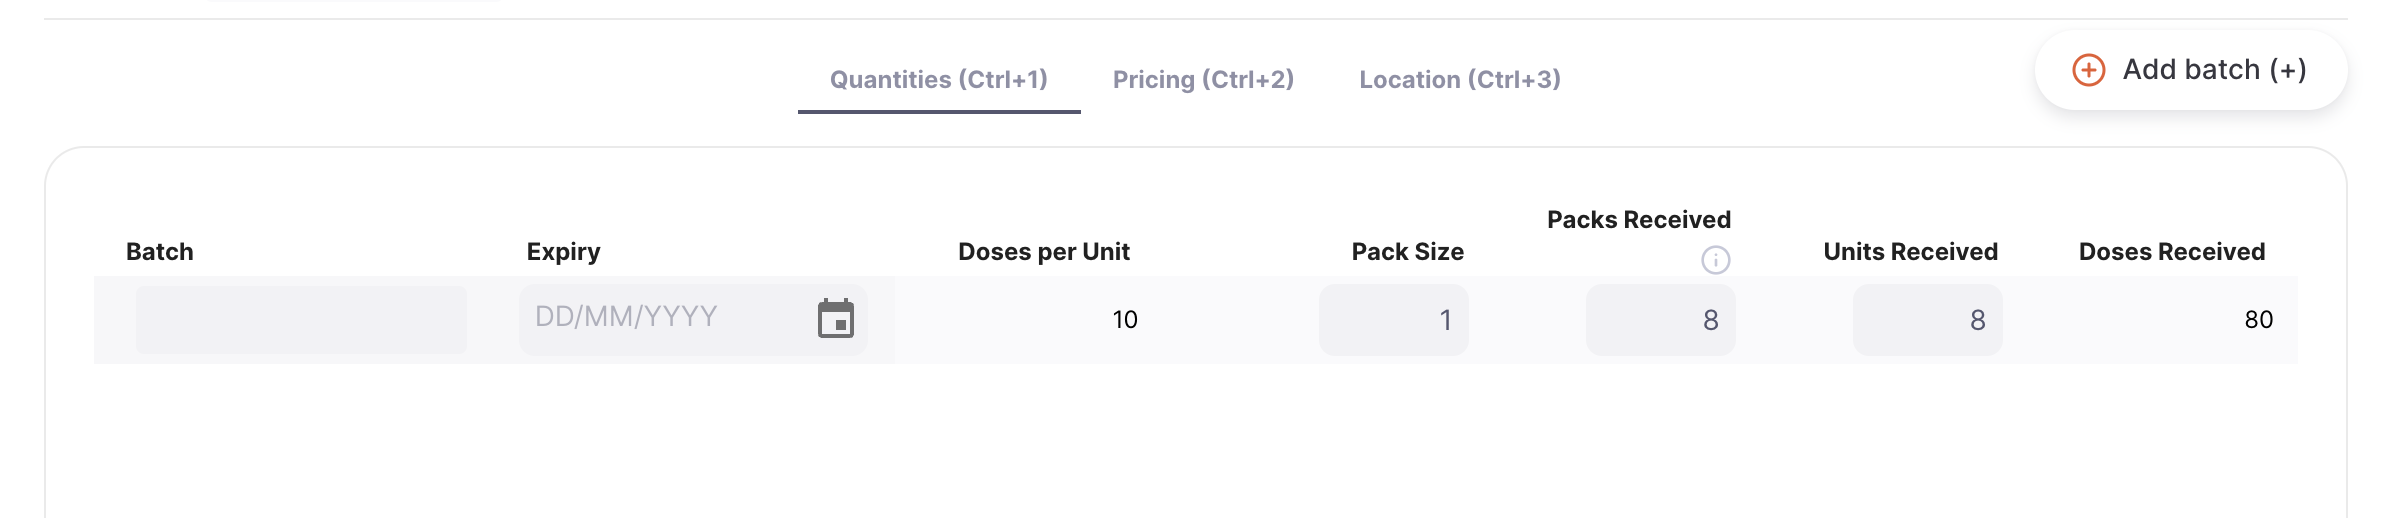
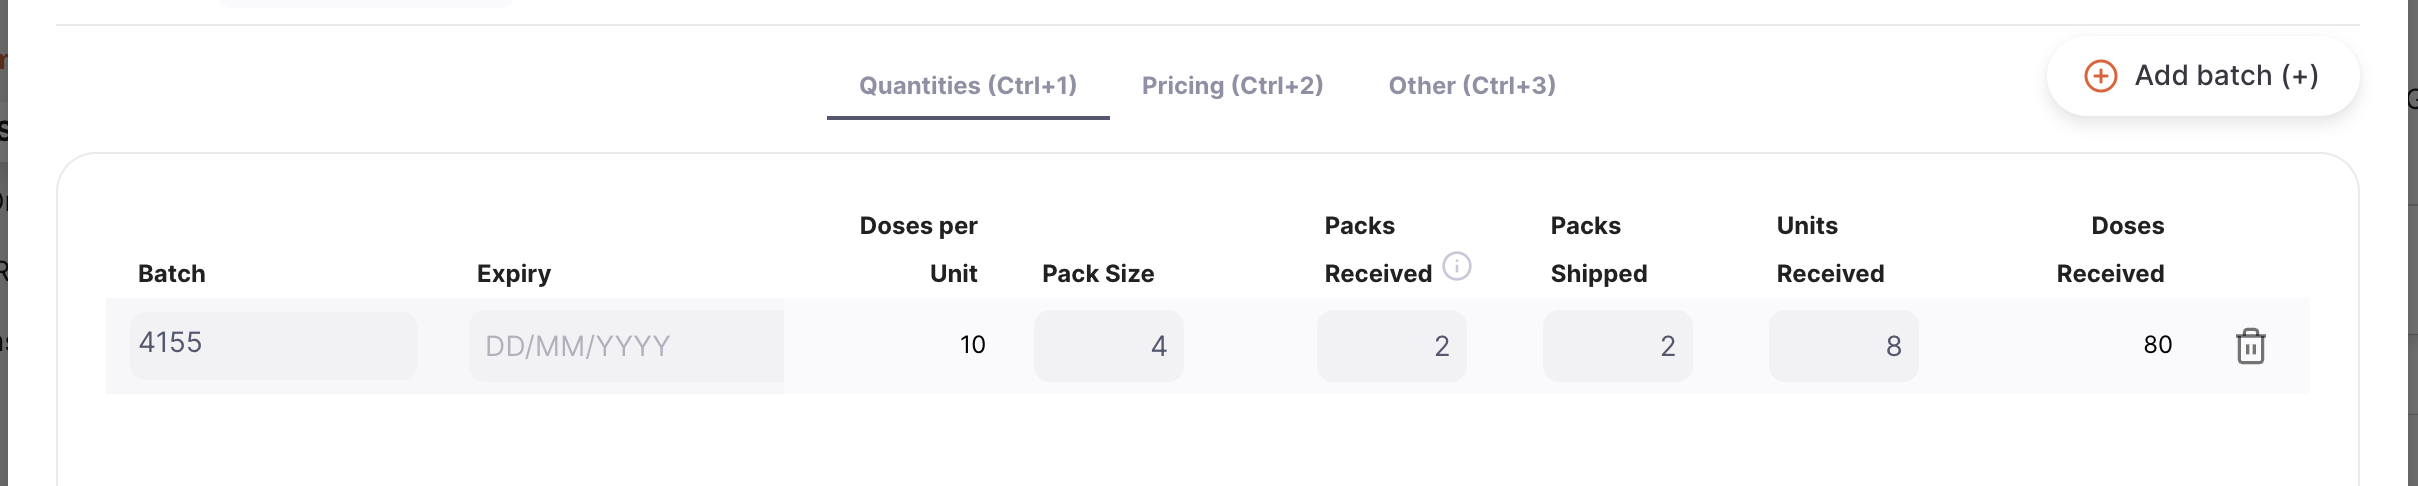
inbound shipment changes

diff --git a/content/docs/replenishment/inbound shipments/index.md b/content/docs/replenishment/inbound shipments/index.md
@@ -333,7 +333,8 @@ In the `Quantities` tab, you can update the following fields:
 2. **Expiry**: The expiry date of the batch number. Leave blank is not applicable
 3. **Pack Size**: The quantity of units per pack (by default, pack size is 1)
 4. **Packs Received**: The quantity of packs you are receiving. This can be entered manually or calculated based on Unit Received / Pack Size
-5. **Unit Received** The quantity of units you are receiving. This can be entered manually or calculated based on Packs x Pack Size (`[# Packs] x [Pack Size]`)
+5. **Packs Shipped** The quantity of packs sent by the supplier.
+6. **Units Received** The quantity of units you are receiving. This can be entered manually or calculated based on Packs x Pack Size (`[# Packs] x [Pack Size]`)
 
 **Additional vaccine columns**
 
@@ -394,6 +395,7 @@ In the below example, the first line's cost price is $0.01 per unit and the sell
 In the third tab, `Other`, you can select the following:
 
 - **Location**: A storage location to assign the batch number to a location in your storage facility.
+- **Comment**: This is a free text field that can be used to add a comment about the shipement line.
 - **Donor**: A donor, if configured to track donors. See [Track stock by donor](#track-stock-by-donor) for details.
 - **Campaign**: If you have a campaign configured (see [Campaigns](/docs/manage/campaigns/)) then this column allows you to associate the stock line with a campaign
 
